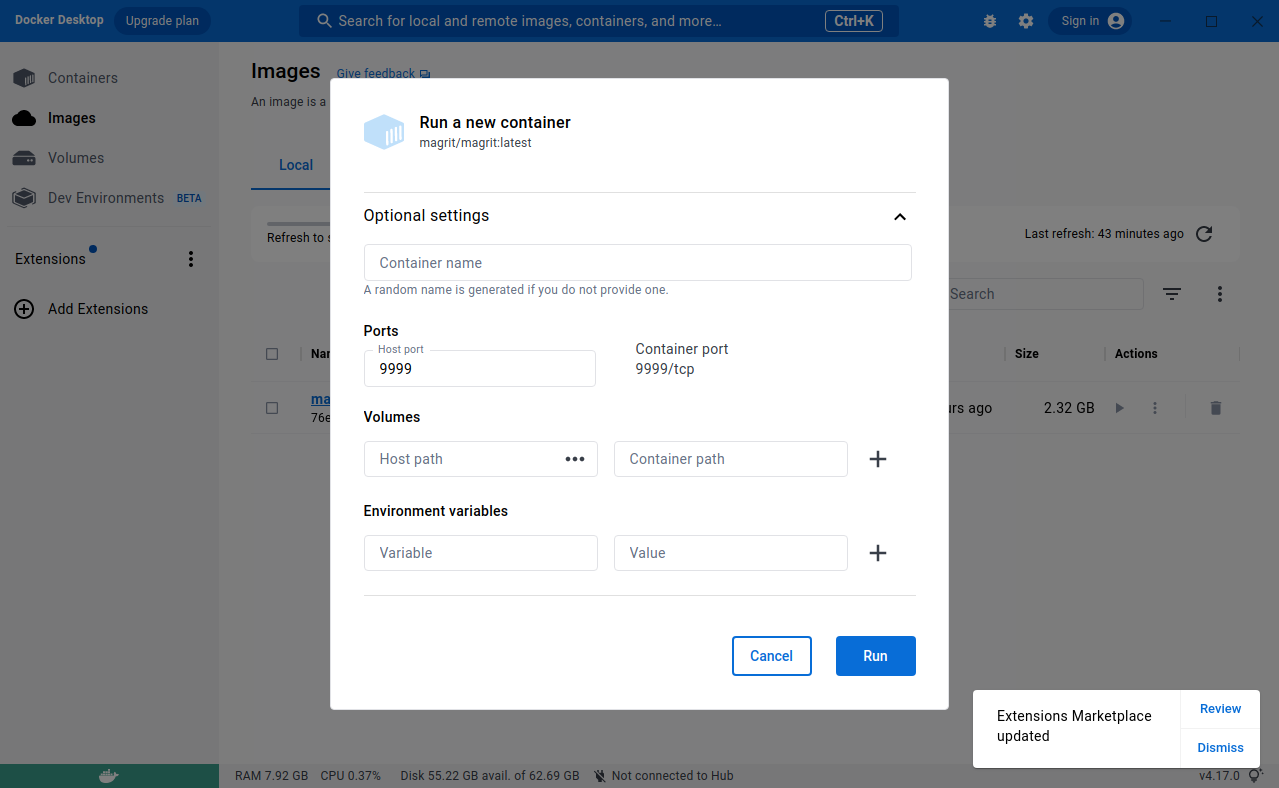
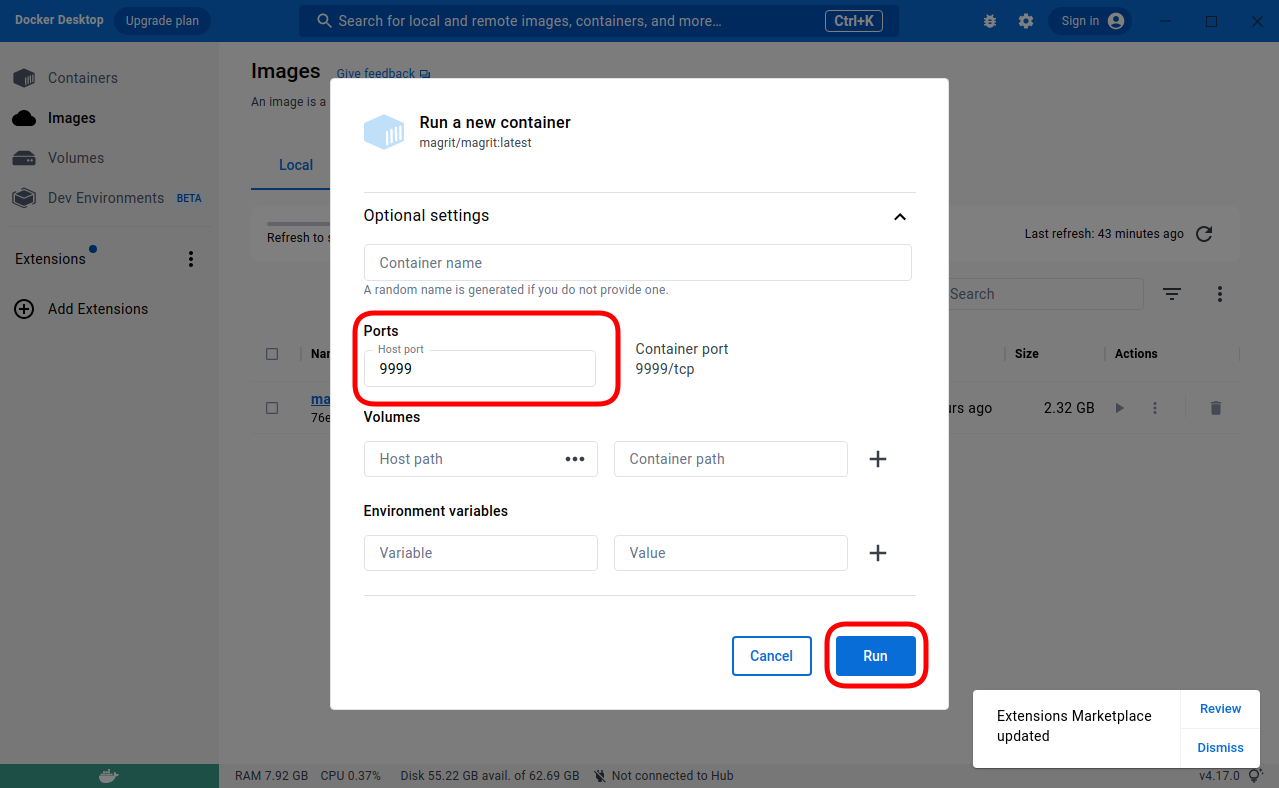
WIP

Changed region(s): [[0.2744, 0.3959, 0.4879, 0.5178], [0.6403, 0.7614, 0.7318, 0.8832]]

diff --git a/index.html b/index.html
@@ -309,13 +309,14 @@
 				
 				- Pour l'utiliser sans internet
 
-				- Pour traiter des données sensibles
+				- Pour traiter des données sensibles en local
 
-				- Bénéficier de meilleures performances
+				- Pour bénéficier de meilleures performances
 
-				- L'installer sur un Raspberry Pi pour enseigner la cartographie à une classe sans accès au Web ?
+				- L'installer sur un *Raspberry Pi* pour enseigner la cartographie à une classe sans accès au Web ?
 
-				<img src="images/Raspberry_Pi_4_Model_B_-_Side.jpg" style="width: 300px;">
+				<img src="images/Raspberry_Pi_4_Model_B_-_Side.jpg" style="width: 300px; float:left;">
+				<img src="images/docker-hub-magrit-multi.png" style="width: 600px; float:right;">
 
 				--
 
@@ -351,6 +352,24 @@
 
 				- **En utilisant le GUI Docker Desktop (option 2)** :
 
+				<img src="images/docker-desktop-ui.png" style="width: 800px"/>
+				--
+
+				<img src="images/docker-desktop-search-magrit.png" style="width: 800px"/>
+
+				<small>*Chercher "Magrit" dans la barre de recherche, sélectionner l'image __magrit/magrit__ et cliquer sur __Pull__*.</small>
+
+				--
+
+				<img src="images/docker-desktop-images.png" style="width: 800px"/>
+
+				<small>*Dans le menu __Images__, cliquer sur le bouton* ▶ *de l'image __magrit/magrit__*.</small>
+
+				--
+
+				<img src="images/docker-desktop-run-options.png" style="width: 800px"/>
+
+				<small>*Renseigner le port sur lequel l'application doit être exposée (par exemple 9999)*.</small>
 
 				--
 
@@ -360,7 +379,15 @@
 
 				😎 **_Simplement en ouvrant votre navigateur à l'adresse http://localhost:9999/_**
 
-				<br><br>
+				<br>
+
+				<img src="images/screenshot-magrit-local.png" />
+
+				--
+
+				*Il est ensuite possible de stopper ou de redémarrer l'application depuis le menu __Containers__ de Docker Desktop.*
+
+				<img src="images/docker-desktop-containers.png" style="width: 800px"/>
 				</textarea>
 			</section>
 			<section data-markdown>
